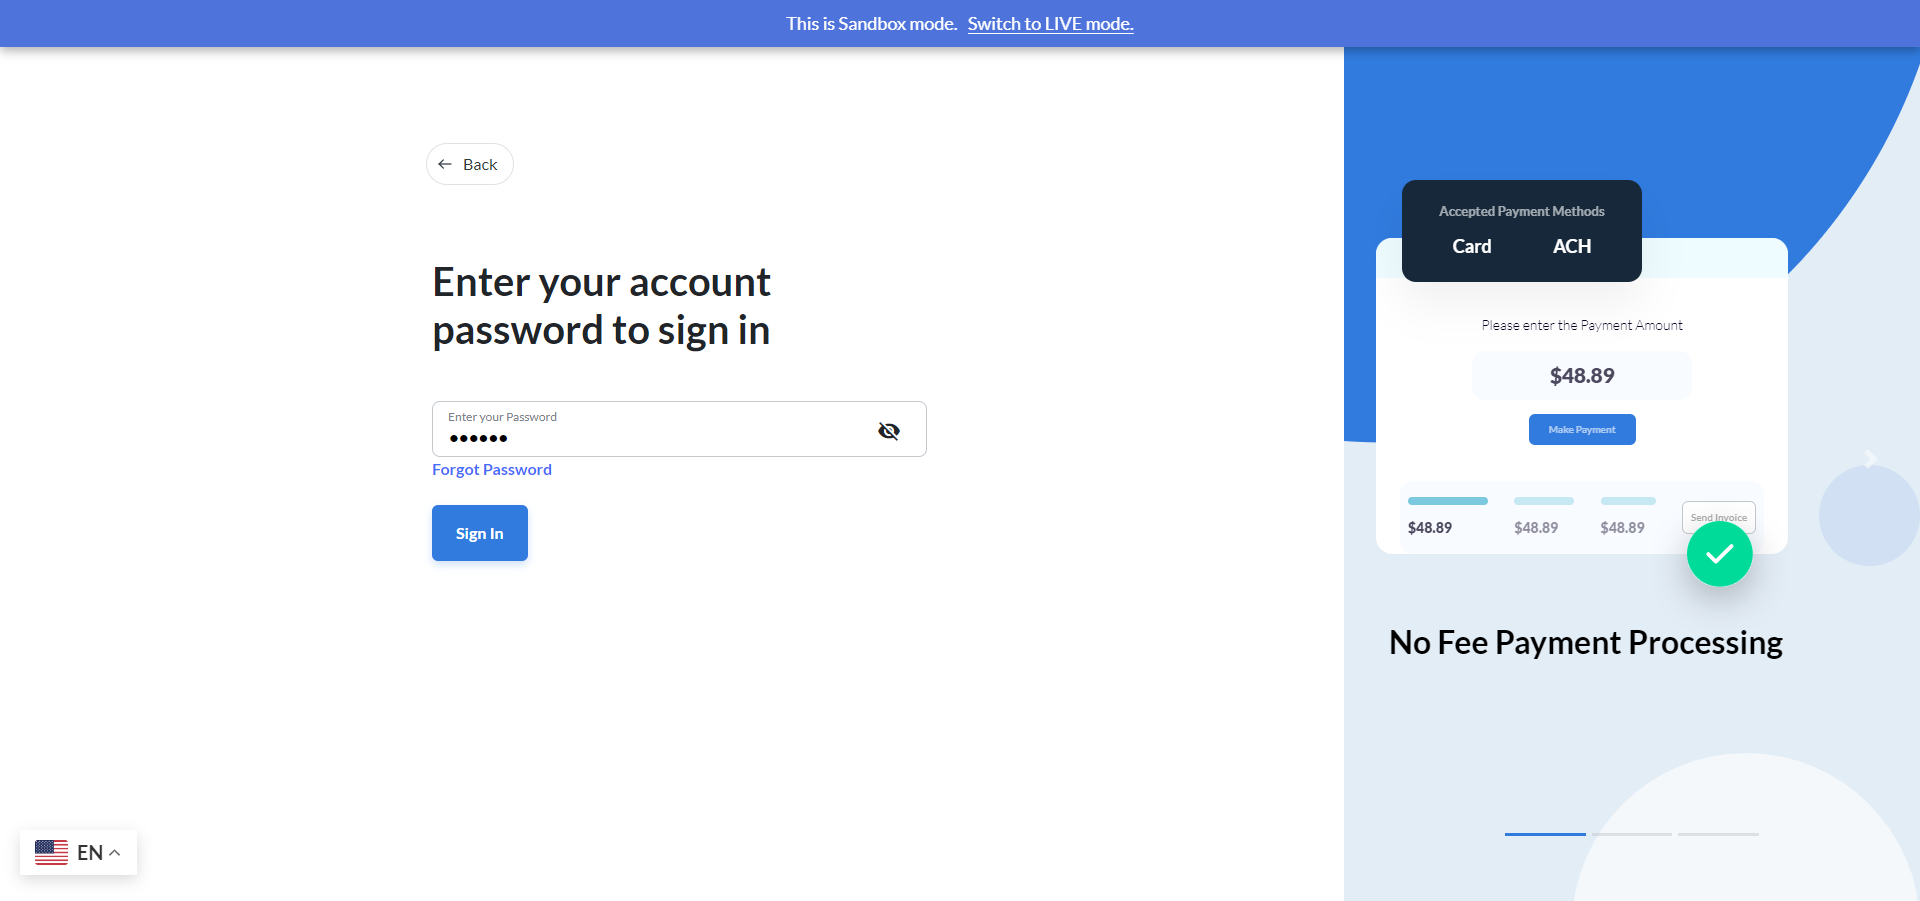
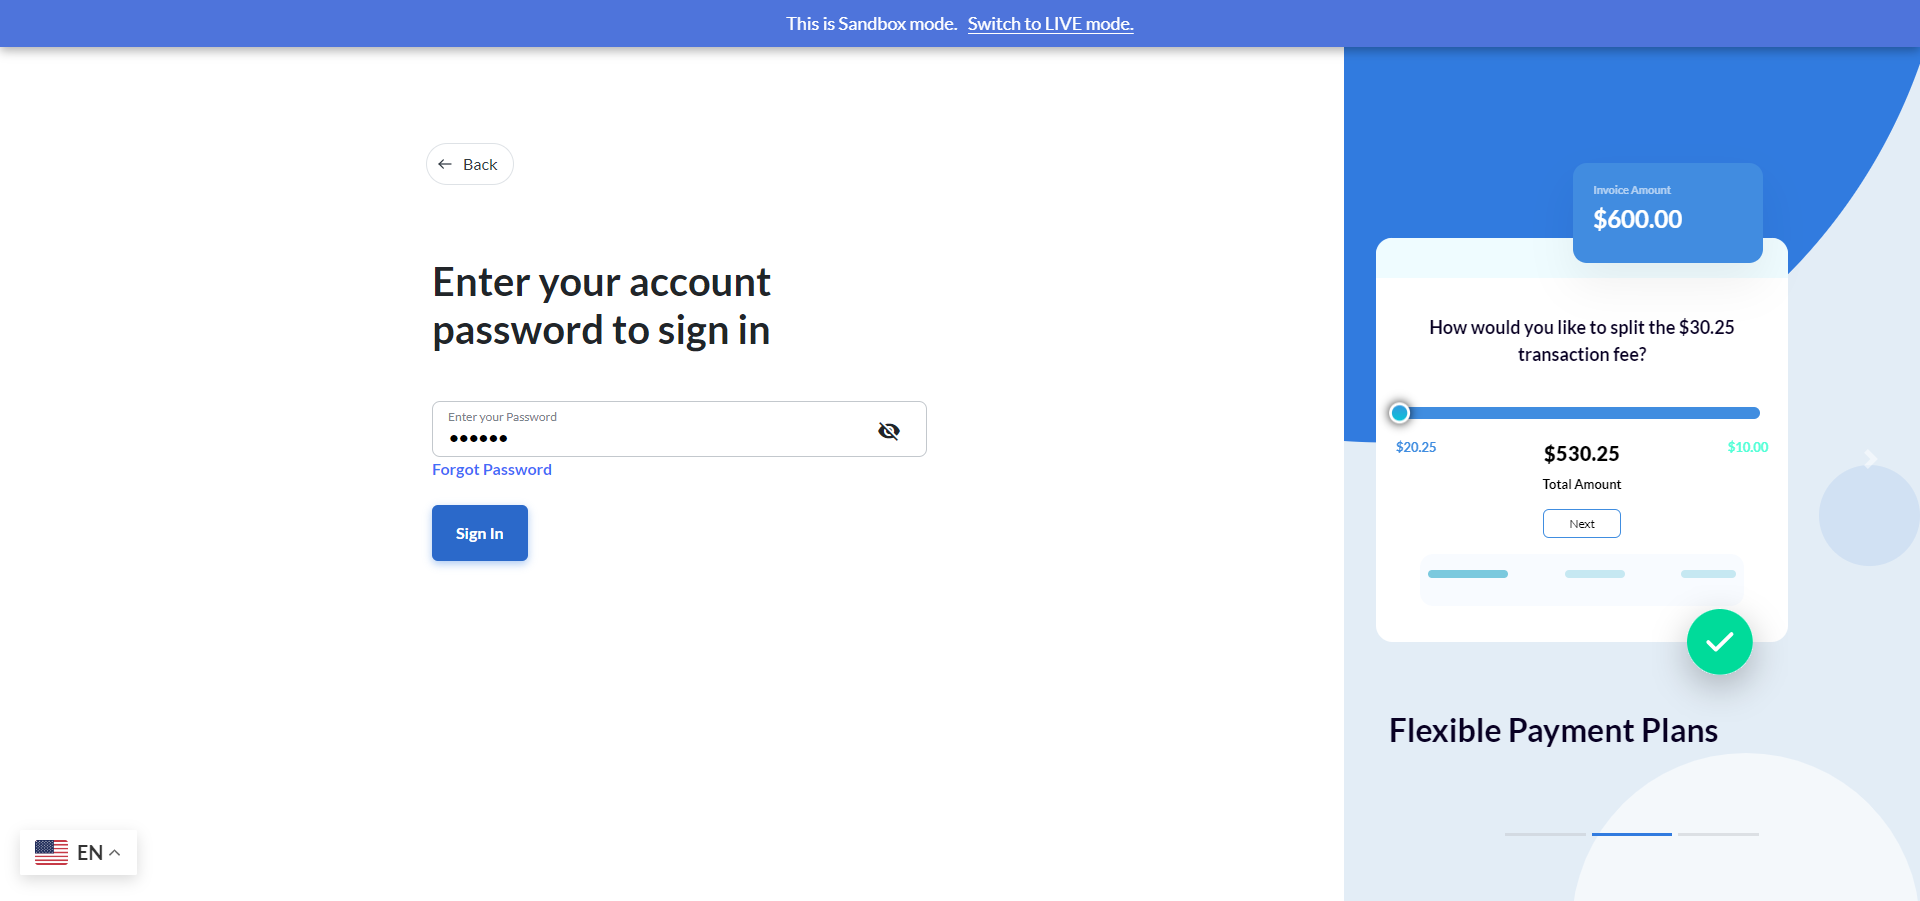
03  06 oofc

Changed region(s): [[0.7188, 0.3418, 0.9375, 0.7769], [0.7188, 0.1865, 0.9375, 0.3108], [0.7188, 0.7769, 0.9062, 0.8391]]

diff --git a/pageObjects/BusiApplePage.py b/pageObjects/BusiApplePage.py
@@ -45,13 +45,15 @@ class BusiApplePage:
     text_Expected_Monthly_Payout_xpath =  "/html/body/app-root/app-layouts/mat-sidenav-container/mat-sidenav-content/main/app-contract-list/div/div[2]/div[2]/app-contract-details/div/div/div[2]/mat-accordion[1]/mat-expansion-panel/div/div/div/div/div/div[1]/div[2]/div[4]/div[2]"
     text_downpayment_amount_less_xpath = "/html/body/app-root/app-layouts/mat-sidenav-container/mat-sidenav-content/main/app-contract-list/div/div[2]/div[2]/app-contract-details/div/div/div[2]/mat-accordion[1]/mat-expansion-panel/div/div/div/div/div/div[1]/div[1]/div/div[2]/div[1]/h4"
     text_Interest_xpath = "/html/body/app-root/app-layouts/mat-sidenav-container/mat-sidenav-content/main/app-contract-list/div/div[2]/div[2]/app-contract-details/div/div/div[2]/mat-accordion[1]/mat-expansion-panel/div/div/div/div/div/div[1]/div[1]/div/div[1]/div[2]/span[4]/h4/span"
+    text_rec_before_def_xpath = "/html/body/app-root/app-layouts/mat-sidenav-container/mat-sidenav-content/main/app-contract-list/div/div[2]/div[2]/app-contract-details/div/div/div[2]/mat-accordion[1]/mat-expansion-panel/div/div/div/div/div/div[1]/div[1]/div/div[1]/div[1]/h4/span[1]"
 
+    text_rec_after_def_xpath = "/html/body/app-root/app-layouts/mat-sidenav-container/mat-sidenav-content/main/app-contract-list/div/div[2]/div[2]/app-contract-details/div/div/div[2]/mat-accordion[1]/mat-expansion-panel/div/div/div/div/div/div[1]/div[1]/div/div[1]/div[2]/h4/span[1]"
 
-
-
-
-
-
+    # text_remaining_expected_payout ="/html/body/app-root/app-layouts/mat-sidenav-container/mat-sidenav-content/main/app-contract-list/div/div[2]/div[2]/app-contract-details/div/div/div[2]/mat-accordion[1]/mat-expansion-panel/div/div/div/div/div/div[1]/div[2]/div[2]/div[2]"
+    # text_paid_to_business = "/html/body/app-root/app-layouts/mat-sidenav-container/mat-sidenav-content/main/app-contract-list/div/div[2]/div[2]/app-contract-details/div/div/div[2]/mat-accordion[1]/mat-expansion-panel/div/div/div/div/div/div[1]/div[2]/div[3]/div[2]"
+    # text_expected_monthly_payout = "/html/body/app-root/app-layouts/mat-sidenav-container/mat-sidenav-content/main/app-contract-list/div/div[2]/div[2]/app-contract-details/div/div/div[2]/mat-accordion[1]/mat-expansion-panel/div/div/div/div/div/div[1]/div[2]/div[4]/div[2]"
+    text_donated_amount_xpath ="/html/body/app-root/app-layouts/mat-sidenav-container/mat-sidenav-content/main/app-contract-list/div/div[2]/div[2]/app-contract-details/div/div/div[2]/mat-accordion[1]/mat-expansion-panel/div/div/div/div/div/div[1]/div[2]/div[5]/div[2]/span"
+    text_total_balance_remaning_xpath ="/html/body/app-root/app-layouts/mat-sidenav-container/mat-sidenav-content/main/app-contract-list/div/div[2]/div[2]/app-contract-details/div/div/div[2]/mat-accordion[1]/mat-expansion-panel/div/div/div/div/div/div[1]/div[2]/div[8]/div[2]"
 
 
 
@@ -121,7 +123,22 @@ class BusiApplePage:
         # return {'value_finaced_ammount': self.value_finaced_ammount ,  
         #         'text_number_of_month' : self.text_number_of_month ,  'text_Customer_Payoff_Amount': self.text_Customer_Payoff_Amount , } 
 
+    def textrecbeforedef(self):
+        self.text_rec_before_def=(self.driver.find_element(By.XPATH, self.text_rec_before_def_xpath).text)
+        print(self.text_rec_before_def) 
     
+    def textrecafterdef(self):
+        self.text_rec_after_def=(self.driver.find_element(By.XPATH, self.text_rec_after_def_xpath).text)
+        print(self.text_rec_after_def) 
+  
+  
+  
+    def textdonatedamount(self):
+        self.text_donated_amount=(self.driver.find_element(By.XPATH, self.text_donated_amount_xpath).text)
+        print(self.text_donated_amount) 
+    def texttotalbalanceremaning(self):
+        self.text_total_balance_remaning=(self.driver.find_element(By.XPATH, self.text_total_balance_remaning_xpath).text)
+        print(self.text_total_balance_remaning) 
     
 
     def textnewnumberofmonth(self):

diff --git a/testCases/busicalculate.py b/testCases/busicalculate.py
@@ -36,13 +36,16 @@ class busicalculate:
             # print("abc")
             # print(self.finaced_amount)
             finaced_amount = a.replace("$","").replace(",","")
+            print(finaced_amount)
             down_payment = b.replace("$","").replace(",","")
+            print(down_payment)
             no_of_month = int(c)
+            print(no_of_month)
             # interest = d.replace("% C","").replace(",","")
             # interest = interest.replace("% F","")
             # # print(g)
             # print(h)
-            interest= 18.9
+            interest= 19.9
 
             finaced_amount=float(finaced_amount)
 
@@ -56,8 +59,9 @@ class busicalculate:
              # print("Recuring amount during deffred     =  "  + str(recuring_amont_during_def_with_transection))  
              totel_remaning_amount= recuring_amont_with_transection*no_of_month
               # print("totel_reaning_during def  =  "   + str(totel_remaning_during_def))   
-              
-             return {'value1': recuring_amont_with_transection , 'value2':totel_remaning_amount , 'value3': principle_per_month , 'value4' : totel_payble_with_intrest_flat} 
+             rec_after_def =  totel_payble_with_intrest_flat / no_of_month
+
+             return {'value1': recuring_amont_with_transection , 'value2':totel_remaning_amount , 'value3': principle_per_month , 'value4' : totel_payble_with_intrest_flat , 'value5' : totel_remaning_amount  ,'value6' : rec_after_def } 
 
 
             else:
@@ -65,15 +69,17 @@ class busicalculate:
               # print(c1)
               c3 = pow(c1,no_of_month)
               # print(c3)
-              c2 = finaced_amount * c3
+              totel_remaning_amount = finaced_amount * c3
               # print("totel payble   =  "  +str(c2)) 
               principle_per_month=finaced_amount/ no_of_month
               recuring_amont_during_def_with_transection  =  principle_per_month * 1.03
               # print("Recuring amount during deffred     =  "  + str(recuring_amont_during_def_with_transection))  
               totel_remaning_during_def= recuring_amont_during_def_with_transection*no_of_month
               # print("totel_reaning_during def  =  "   + str(totel_remaning_during_def))   
+              rec_after_def =  totel_remaning_amount / no_of_month
+
               
-              return {'value1': recuring_amont_during_def_with_transection , 'value2':totel_remaning_during_def , 'value3': principle_per_month , 'value4' : c2} 
+              return {'recuring_amont_during_def_with_transection': recuring_amont_during_def_with_transection , 'totel_remaning_during_def':totel_remaning_during_def , 'principle_per_month': principle_per_month , 'value4' : totel_remaning_amount  ,'value5' : rec_after_def } 
 
 
 

diff --git a/testCases/Busi_get_all.py b/testCases/Busi_get_all.py
@@ -47,14 +47,32 @@ class Busi_get_all:
 
         self.busivalue.textExpectedMonthlyPayout()
         time.sleep(5)
+
+        self.busivalue.textPaidtoBusiness()
+        time.sleep(5)
         
-        # self.busivalue.textInterest()
+
+        self.busivalue.textrecbeforedef()
+        time.sleep(5)
+        self.busivalue.textrecafterdef()
+        time.sleep(5)
+
+
+
+        self.busivalue.texttotalbalanceremaning()
+        time.sleep(5)
+        self.busivalue.textdonatedamount()
+        time.sleep(5)
+        self.busivalue.textInterest()
         time.sleep(5)
         print(self.busivalue.value_finaced_ammount)
 
 
         return {'value_finaced_ammount': self.busivalue.value_finaced_ammount ,'text_downpayment_amount': self.busivalue.text_downpayment_amount,  'text_downpayment_amount_less': self.busivalue.text_downpayment_amount_less,
-                'text_number_of_month' : self.busivalue.text_number_of_month ,  'text_Customer_Payoff_Amount': self.busivalue.text_Customer_Payoff_Amount } 
+                'text_Interest':self.busivalue.text_Interest,  'text_number_of_month' : self.busivalue.text_number_of_month ,  'text_Customer_Payoff_Amount': self.busivalue.text_Customer_Payoff_Amount ,'textRemainingExpectedPayout' :
+                self.busivalue.text_Remaining_Expected_Payout ,'textExpectedMonthlyPayout' : self.busivalue.text_Expected_Monthly_Payout,
+                  'texttotalbalanceremaning' : self.busivalue.text_total_balance_remaning ,'text_Paid_to_Business':self.busivalue.text_Paid_to_Business
+               , 'textdonatedamount': self.busivalue.text_donated_amount , 'textrecbeforedef' : self.busivalue.text_rec_before_def , 'textrecafterdef' : self.busivalue.text_rec_after_def} 
 
 
         # self.busivalue.valueoftheintrest()

diff --git a/pageObjects/LoginPageBusi.py b/pageObjects/LoginPageBusi.py
@@ -1,4 +1,5 @@
 from selenium.webdriver.common.by import By
+from selenium.webdriver.common.keys import Keys
 
 
 class LoginPageBusi:
@@ -21,7 +22,7 @@ class LoginPageBusi:
    
     button_Manage_contracts_xpath ="/html/body/app-root/app-layouts/mat-sidenav-container/mat-sidenav/div/mat-nav-list/div[2]/app-sidemenu[3]/div/div/app-sidemenu[1]/mat-list-item/div/div[2]/a"
     button_full_payment_plan_xpath = "/html/body/app-root/app-layouts/mat-sidenav-container/mat-sidenav-content/main/app-contract-list/div/div[2]/div[2]/app-contract-details/div/div/div[2]/mat-accordion[1]/mat-expansion-panel/mat-expansion-panel-header/span[1]/mat-panel-title"
-  
+    textbox_search_xpath ="/html/body/app-root/app-layouts/mat-sidenav-container/mat-sidenav-content/main/app-contract-list/div/div[1]/div[3]/div/input"  
 
     def __init__(self, driver):
         self.driver = driver
@@ -54,3 +55,12 @@ class LoginPageBusi:
         self.driver.find_element(By.XPATH, self.button_Manage_contracts_xpath).click()
     def clickFullPaymentPlanDetails(self):
         self.driver.find_element(By.XPATH, self.button_full_payment_plan_xpath).click()
+    def setsearchbar(self, contract_id):
+        self.driver.find_element(By.XPATH, self.textbox_search_xpath).clear()
+        self.driver.find_element(By.XPATH, self.textbox_search_xpath).send_keys(contract_id)
+        
+    def pressenter(self):
+        self.driver.find_element(By.XPATH, self.textbox_search_xpath).send_keys(Keys.RETURN)
+
+
+

diff --git a/testCases/test_busiapple.py b/testCases/test_busiapple.py
@@ -14,6 +14,7 @@ class Test_001_Login:
     baseURL = "https://testbusiness.denefits.com"
     username = "gurdeep.singh+secoldpart1712@bridgingtech.com"
     password = "sookie"
+    contract_id = "82553"
 
     # logger = LogGen.loggen()
     # def getAllfunc():
@@ -85,9 +86,20 @@ class Test_001_Login:
               self.lp.clickPaymentPlans()
               time.sleep(5)
               self.lp.clickManagecontracts()
-              time.sleep(25)
-              self.driver.save_screenshot(
-                  ".\\Screenshots\\" + "test_where_i_m.png")
+              time.sleep(5)
+              
+              self.lp.setsearchbar(self.contract_id)
+              time.sleep(5)
+
+
+              self.lp.pressenter()
+              time.sleep(5)
+
+
+
+
+            #   self.driver.save_screenshot(
+            #       ".\\Screenshots\\" + "test_where_i_m.png")
               self.lp.clickFullPaymentPlanDetails()
               time.sleep(5)
               self.get = Busi_get_all(self.driver)
@@ -111,8 +123,7 @@ class Test_001_Login:
 
             # calcalculte my values
               self.cal = busicalculate(self.driver)
-              result_dict = self.cal.initial_cal(
-                  panelresult['value1'], panelresult['value2'], panelresult['value3'])
+              result_dict = self.cal.initial_cal(result1,result2,result3)
               print(result_dict)
 
      
